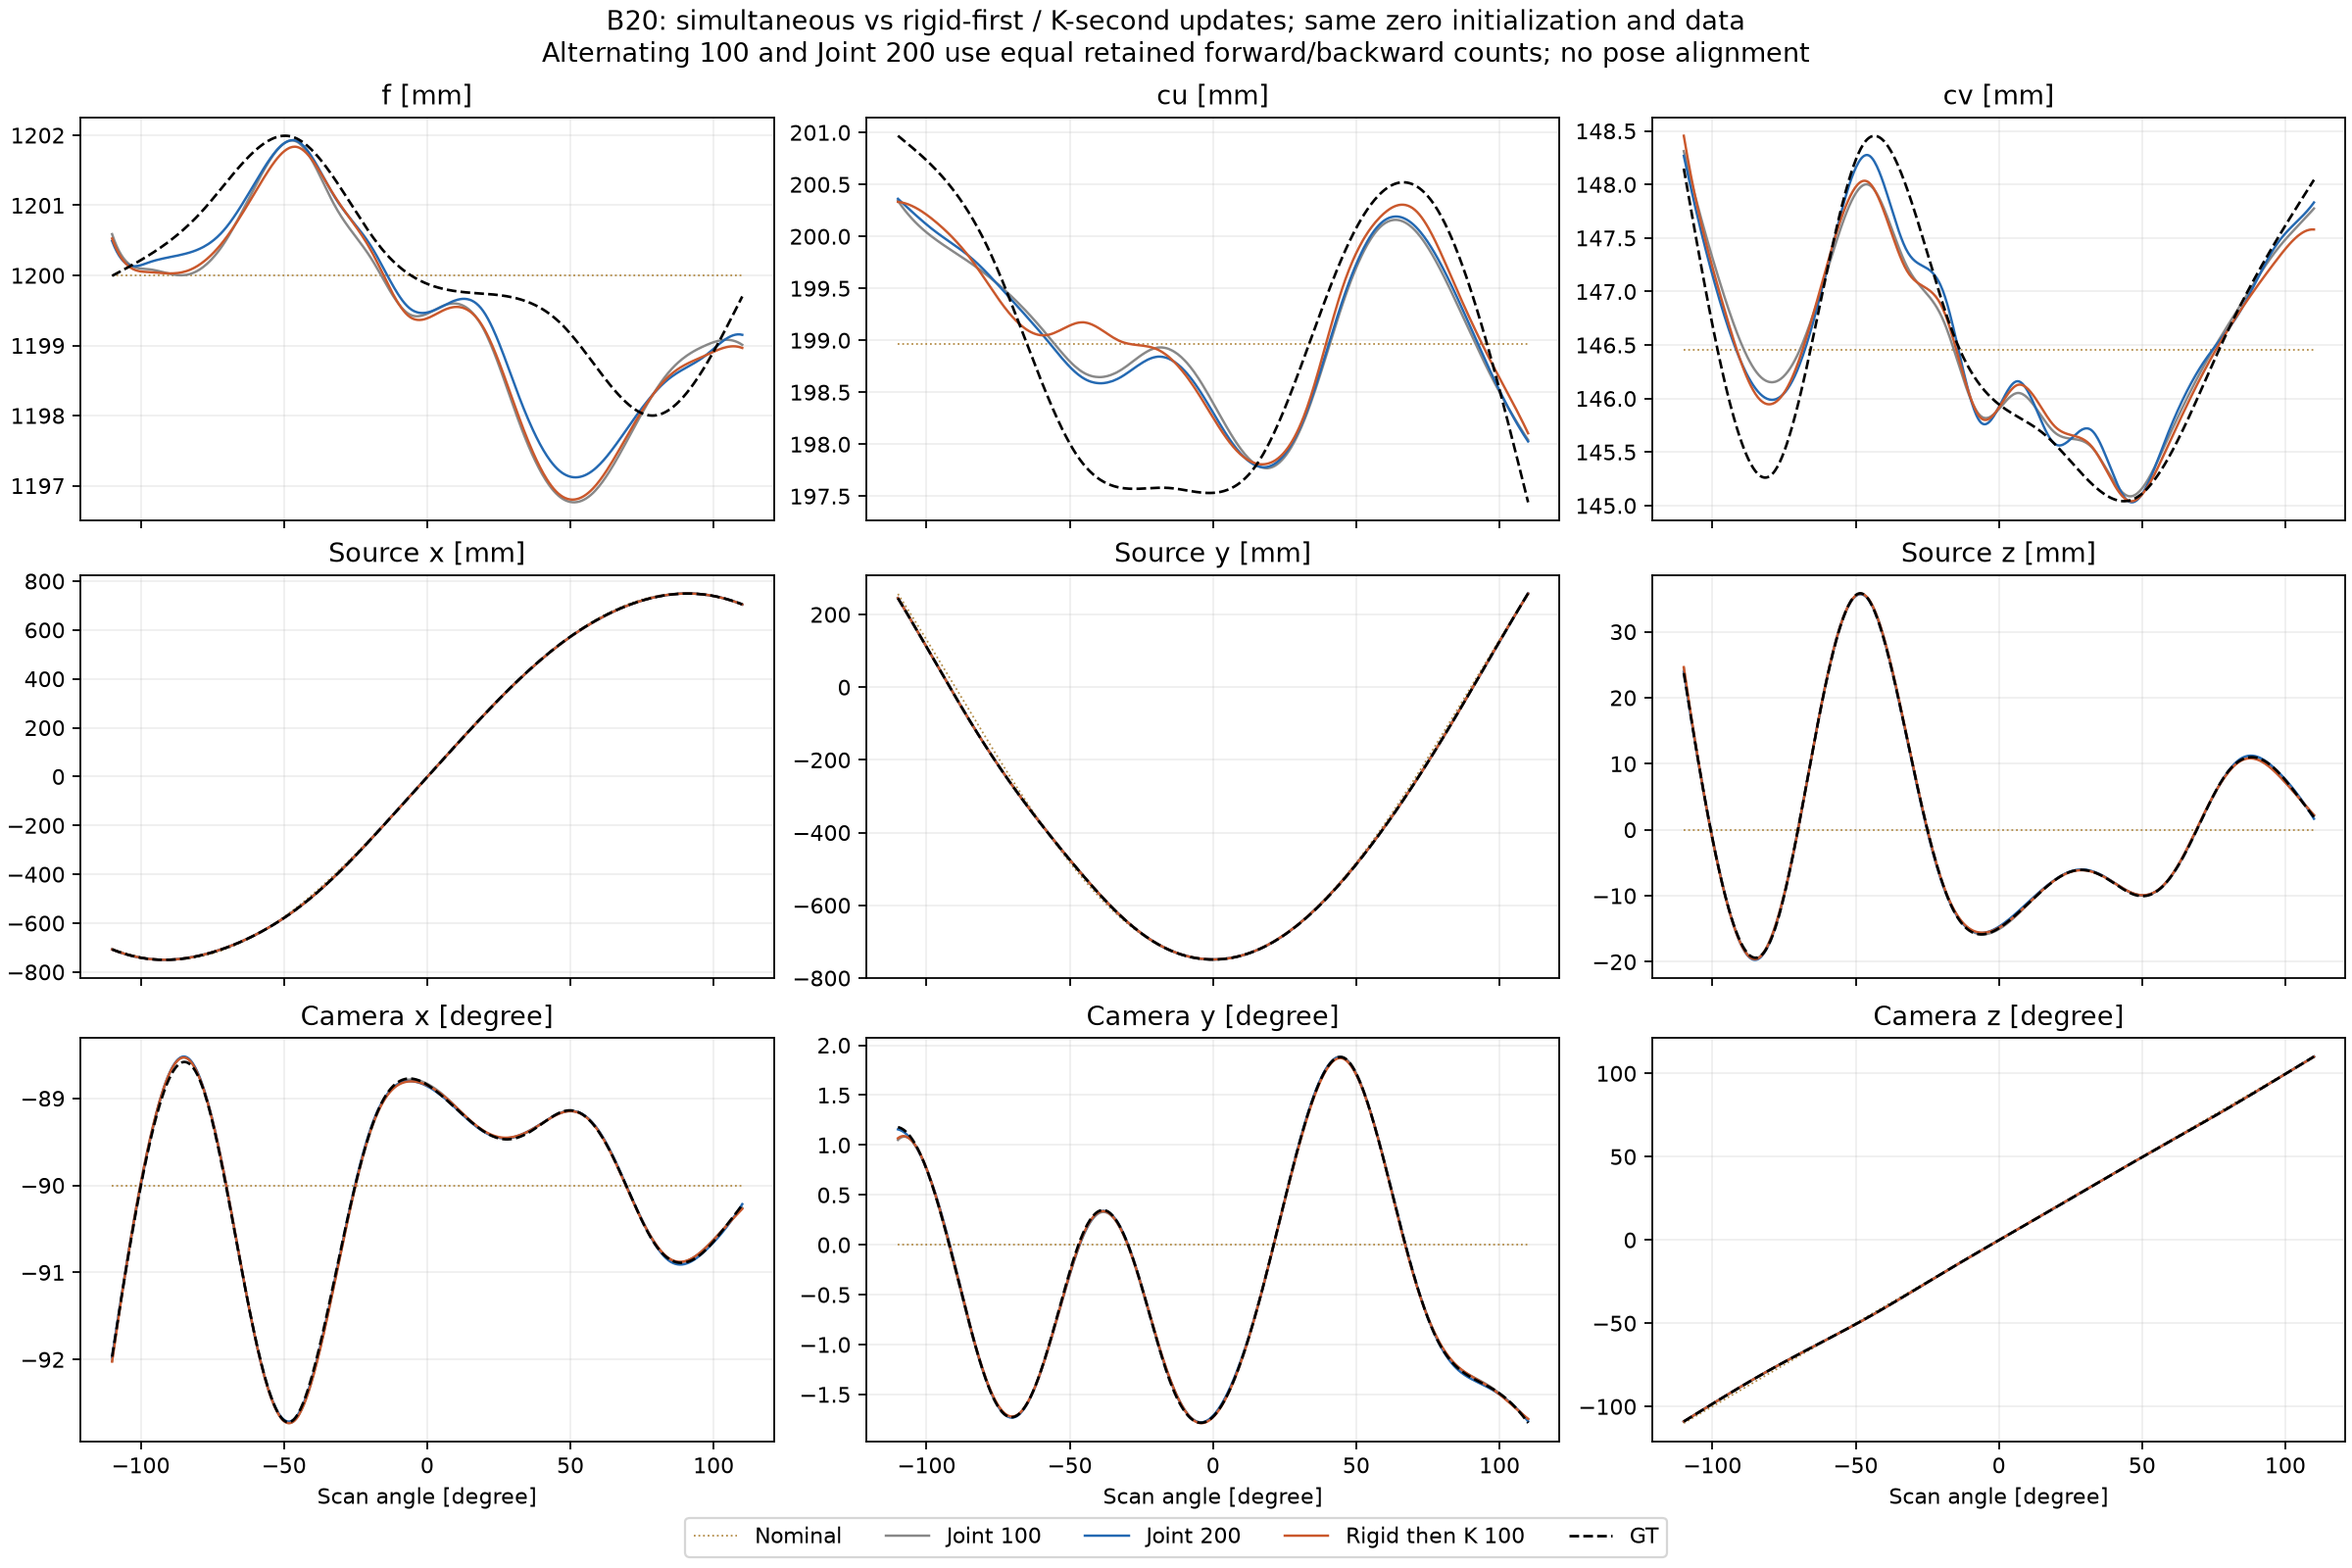
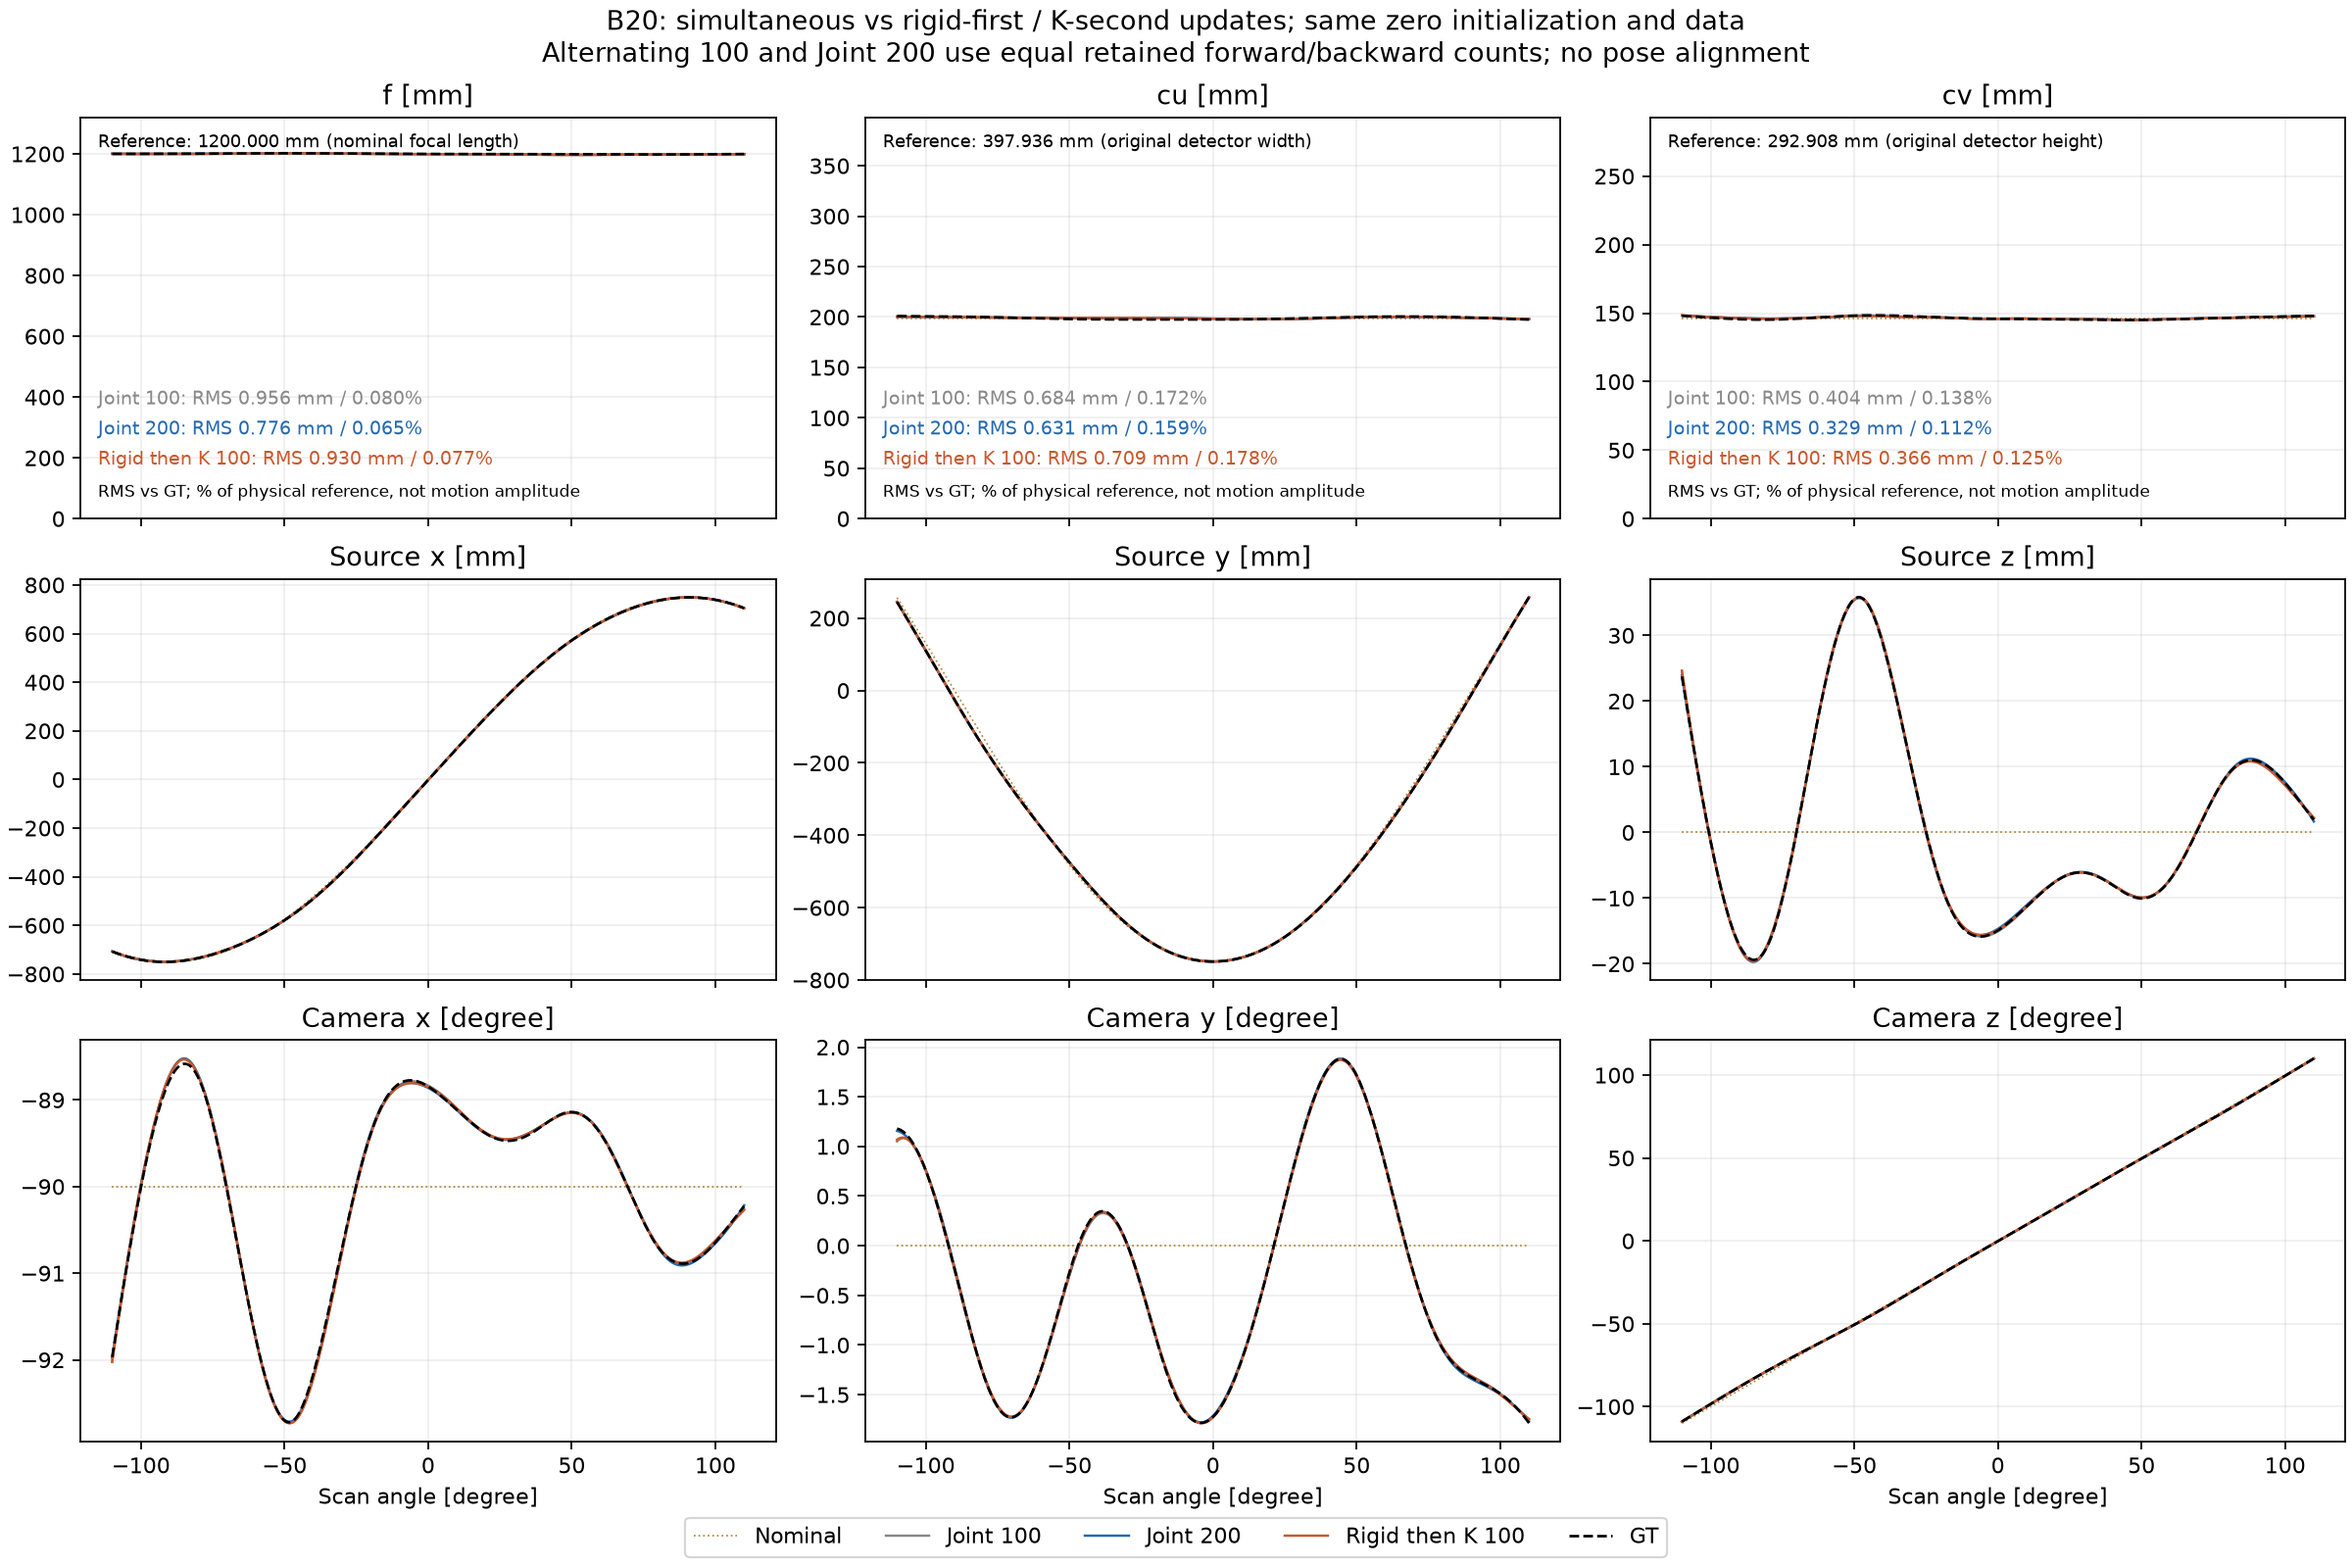
Show intrinsic geometry on physical-scale axes with relative RMS

diff --git a/report_alternating_spline.py b/report_alternating_spline.py
@@ -212,9 +212,25 @@ def report():
         angles=Rotation.from_matrix(camera['Q_camera_to_physical']).as_euler('xyz',degrees=True)
         return np.c_[camera['intrinsics_f_cu_cv_mm'],camera['source_xyz_mm'],
                      np.rad2deg(np.unwrap(np.deg2rad(angles),axis=0))]
+    physical_gt=physical(truth_p)
+    physical_nominal=physical(nominal)
+    physical_runs=[physical(r['p']) for r in runs]
+    # Principal-point coordinates depend on the detector origin. Use the original
+    # detector width/height as reference lengths, not cu/cv or virtual padding.
+    k_scales=np.array([np.median(physical_nominal[:,0]),
+                       (cols-2*pad_u)*du,(rows-2*pad_v)*dv])
+    k_scale_names=['nominal focal length','original detector width','original detector height']
+    k_rms=[np.sqrt(np.mean((value[:,:3]-physical_gt[:,:3])**2,axis=0))
+           for value in physical_runs]
+    k_display=dict(component_order=['f','cu','cv'],reference_lengths_mm=k_scales.tolist(),
+        reference_definitions=k_scale_names,
+        axis_limits_mm=[[0.,float(1.1*k_scales[0])],[0.,float(k_scales[1])],[0.,float(k_scales[2])]],
+        runs=[dict(label=spec[0],rms_mm=rms.tolist(),rms_percent_reference=(100*rms/k_scales).tolist())
+              for spec,rms in zip(SPECS,k_rms)],
+        note='Physical-scale display only; no fitted values changed. Percentage uses focal length or original detector span, not GT motion amplitude or origin-dependent principal-point coordinates.')
     for kind,truth_values,nominal_values,values,names in [
         ('canonical_parameters9',gt,np.zeros_like(gt),[a['parameters9'] for a in arrays],PARAMETER_NAMES),
-        ('geometry_components9',physical(truth_p),physical(nominal),[physical(r['p']) for r in runs],
+        ('geometry_components9',physical_gt,physical_nominal,physical_runs,
          ['f [mm]','cu [mm]','cv [mm]','Source x [mm]','Source y [mm]','Source z [mm]',
           'Camera x [degree]','Camera y [degree]','Camera z [degree]'])]:
         fig,axes=plt.subplots(3,3,figsize=(15,10),sharex=True,layout='constrained')
@@ -224,6 +240,16 @@ def report():
             ax.plot(theta,truth_values[:,j],'--',color='black',lw=1.2,label='GT')
             ax.set_title(names[j]);ax.grid(alpha=.2);ax.ticklabel_format(axis='y',style='plain',useOffset=False)
             if kind=='canonical_parameters9' and j<6:ax.set_ylim(-10,10)
+            if kind=='geometry_components9' and j<3:
+                ax.set_ylim(k_display['axis_limits_mm'][j])
+                ax.text(.025,.96,f'Reference: {k_scales[j]:.3f} mm ({k_scale_names[j]})',
+                        transform=ax.transAxes,va='top',fontsize=8)
+                for line,(spec,rms) in enumerate(zip(SPECS,k_rms)):
+                    ax.text(.025,.32-.075*line,
+                            f'{spec[0]}: RMS {rms[j]:.3f} mm / {100*rms[j]/k_scales[j]:.3f}%',
+                            color=spec[3],transform=ax.transAxes,va='top',fontsize=8.5)
+                ax.text(.025,.045,'RMS vs GT; % of physical reference, not motion amplitude',
+                        transform=ax.transAxes,va='bottom',fontsize=7.5)
             if j>=6:ax.set_xlabel('Scan angle [degree]')
         fig.legend(*axes.flat[0].get_legend_handles_labels(),loc='outside lower center',ncol=5)
         fig.suptitle('B20: simultaneous vs rigid-first / K-second updates; same zero initialization and data\n'
@@ -270,7 +296,7 @@ def report():
     fig.suptitle('Same fixed all-bead ROI and display scales; actual predictions, no image registration')
     fig.savefig(OUT/'projection_fits.png',dpi=130);plt.close(fig)
     convergence=convergence_report(nominal,truth,truth_pixel,points)
-    record=dict(table=table,runs=summaries,checks=checks,convergence=convergence,block_coupling=block_coupling_diagnostic(),identical_recipe_except_scheme_and_epochs=recipes[0],
+    record=dict(k_physical_scale_display=k_display,table=table,runs=summaries,checks=checks,convergence=convergence,block_coupling=block_coupling_diagnostic(),identical_recipe_except_scheme_and_epochs=recipes[0],
         input_sha256=hashes,comparison='Joint100 reference; Joint200 vs alternating100 have 27400 retained forward/backward batches; GPU migration overhead is recorded separately',
         limitations=['One seed and fixed final epochs, not a learning-rate or block-step-count sweep.',
             'Each block takes one Adam step per existing 4-view batch; not a converged block solve.',

diff --git a/docs/spline_alternating.md b/docs/spline_alternating.md
@@ -73,7 +73,7 @@
 
 ![실제 투영과 잔차](spline_alternating_projection_fits.png)
 
-Canonical 그림의 mm 성분은 ±10 mm, 회전축은 데이터 범위다. 절대 기하 그림에는 nominal도 표시한다. 알려진 검출기 좌표 원점 변환 외에는 GT에 맞춘 pose 정렬을 하지 않는다. 수렴 그림의 GT 평가는 저장 checkpoint에 대한 별도 사후 분석이며, 최종 epoch 선택에 사용하지 않는다.
+Canonical 그림의 mm 성분은 ±10 mm, 회전축은 데이터 범위다. 절대 기하 그림에는 nominal도 표시한다. K의 세 축은 전체 물리적 크기를 기준으로 표시한다: f는 0–1320 mm, cu는 0–397.936 mm, cv는 0–292.908 mm다. 각 축에 GT 대비 RMS(mm)와 기준 길이 대비 백분율을 함께 표기한다. 백분율의 분모는 각각 nominal 초점거리 1200 mm, 원래 검출기 폭 397.936 mm, 높이 292.908 mm이며, 좌표 원점에 따라 달라지는 cu/cv 자체나 가상 검출기의 padding은 분모에 쓰지 않는다. 추정값은 바꾸지 않았고 소스·회전 축도 기존 범위를 유지한다. 전체 물리 크기에 대한 상대 오차와 작은 spline 변화량의 회복 정확도는 별개다. 알려진 검출기 좌표 원점 변환 외에는 GT에 맞춘 pose 정렬을 하지 않는다. 수렴 그림의 GT 평가는 저장 checkpoint에 대한 별도 사후 분석이며, 최종 epoch 선택에 사용하지 않는다.
 
 별도의 GT 주변 점 기하 진단에서 B20의 K와 rigid Jacobian 열 공간 사이 최대 상관은 **0.999960**, 최소 각도는 **0.5134°**였다. spline 계수를 나눠도 거의 같은 투영 변화를 만드는 방향이 남는다는 의미다. 각 블록을 정확히 푸는 이상적인 선형 최소제곱에서도 이 결합은 느린 오차 감소를 만들 수 있다. JSON의 이론적 반복률은 실제 LNCC/Adam의 epoch 수 예측이 아니다.
 
